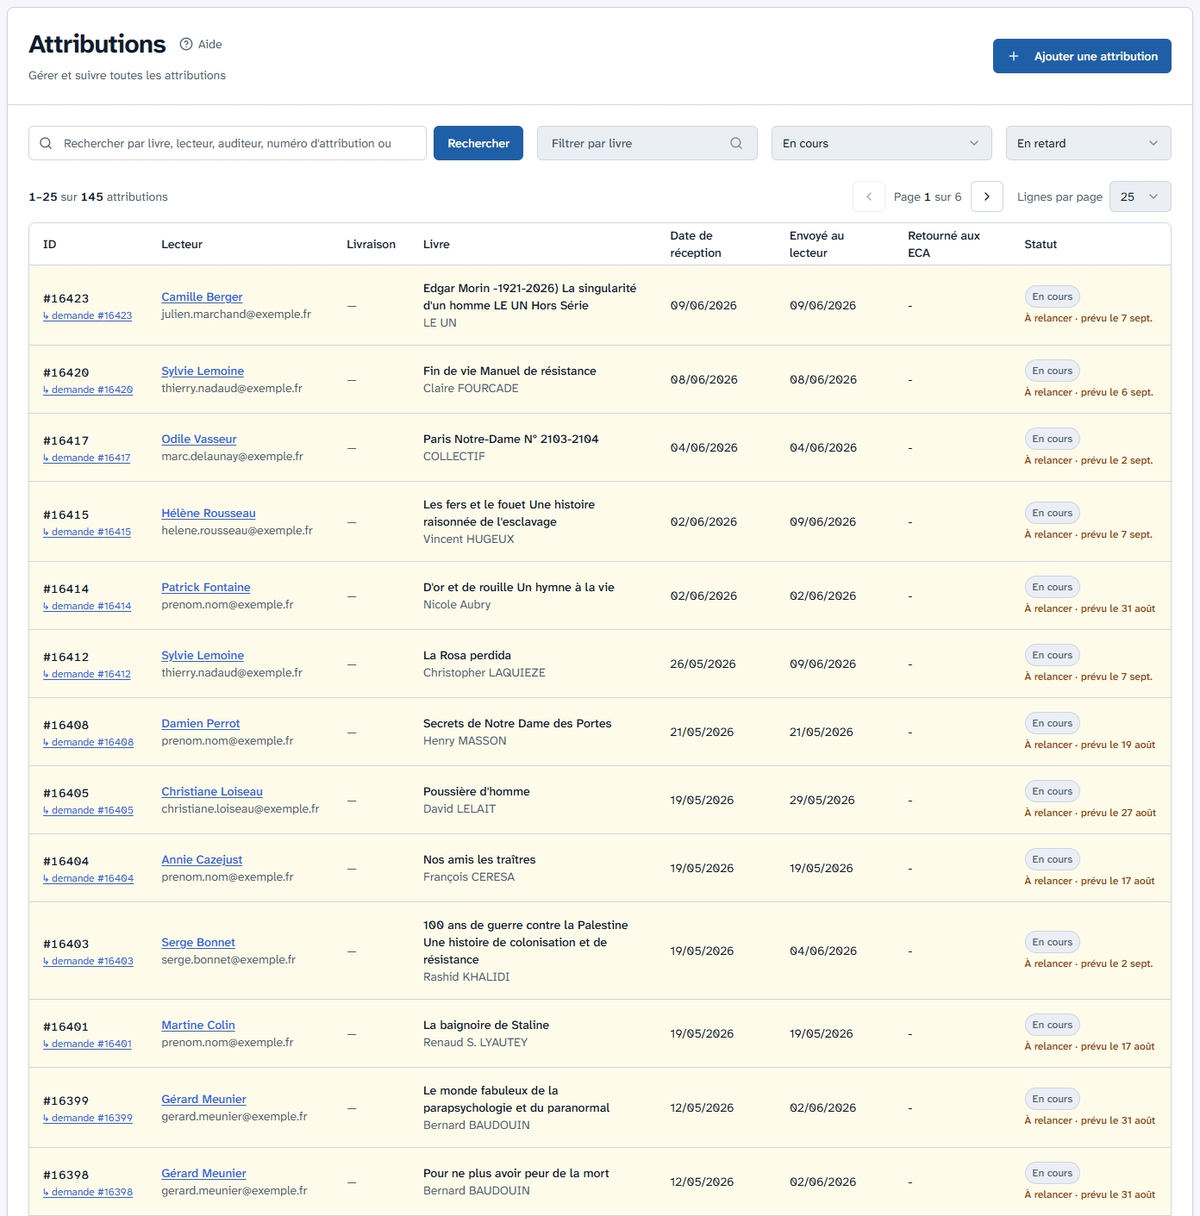
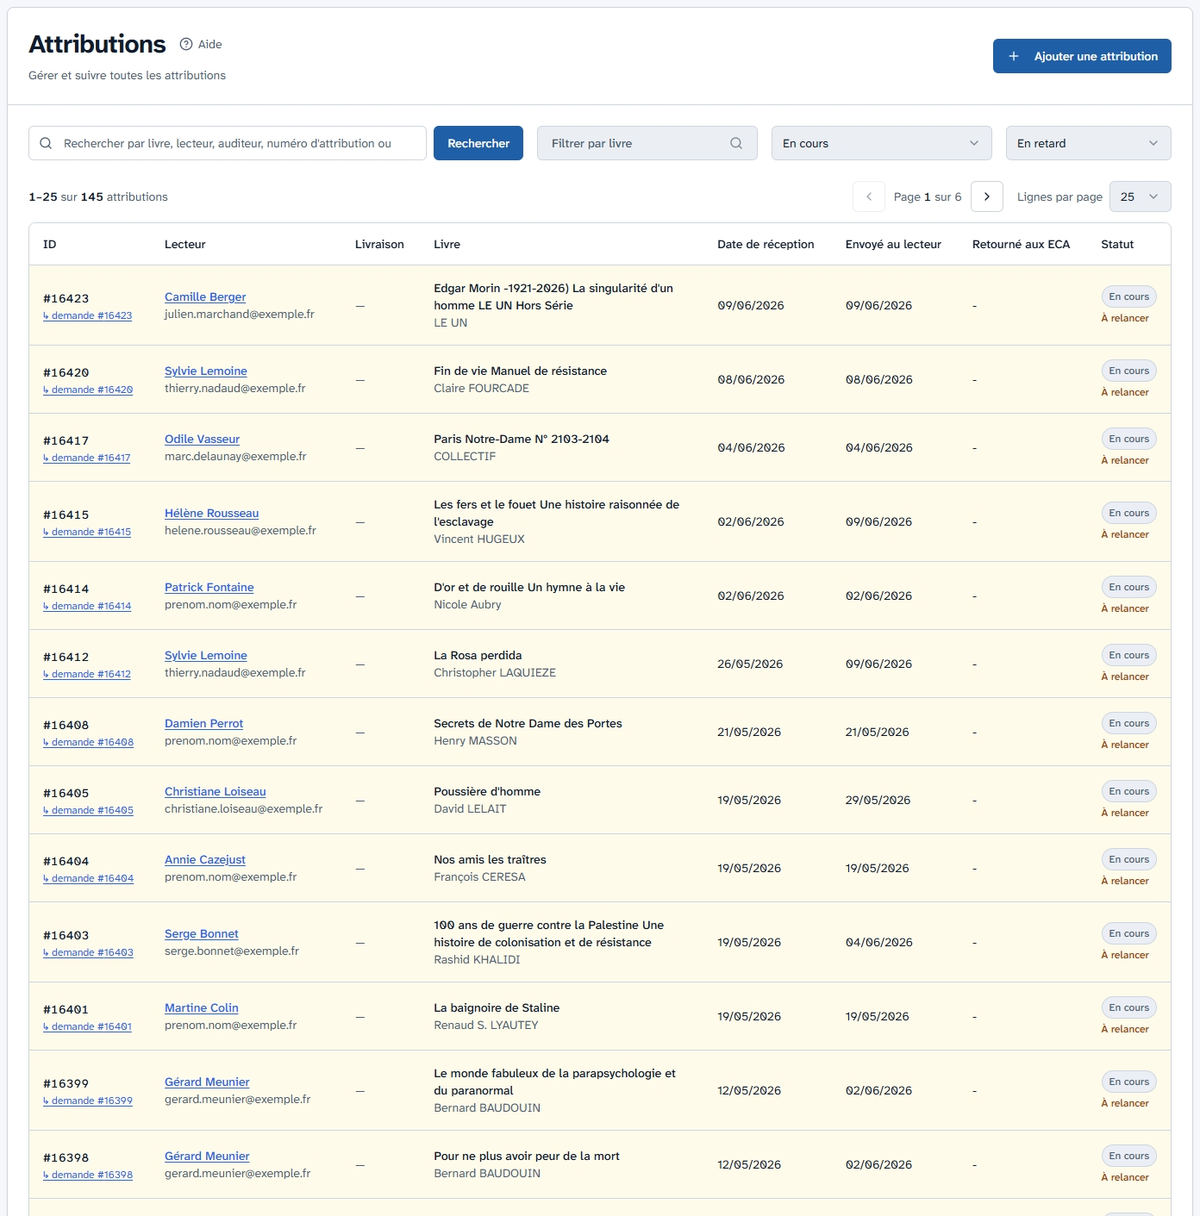
Retards : plus de « prévu le … », seulement « À suivre » / « À relancer » / « À surveiller »
Les badges des listes de demandes et d'attributions ne donnent plus de date
d'échéance : la date prévue se lisait comme un délai manqué et mettait la
pression sur l'équipe, sans rien apprendre que les dates de la ligne (demande,
envoi, retour) ne disent déjà. L'infobulle et le texte pour lecteur d'écran
disent l'étape et la consigne (« Chez le lecteur — à relancer »).

Factures : l'horloge d'une facture en retard dit « Émise depuis plus de 30
jours, à relancer » au lieu de « Date prévue dépassée ».

Mode d'emploi (demandes, attributions, page principale) sans « date prévue »,
deux captures refaites.

diff --git a/lib/orders/delais.ts b/lib/orders/delais.ts
@@ -1,7 +1,6 @@
 import { Prisma } from '@prisma/client';
 import { prisma } from '@/lib/prisma';
 import { STATUS } from '@/lib/statusSync';
-import { parisDate, parisDayKey } from '@/lib/paris-day';
 
 /**
  * Délais par étape — when an open demande is « en retard ».
@@ -357,37 +356,27 @@ export function duplicationStateWhere(
 /** JSON-safe, display-ready délai for a table row — only for rows past a line. */
 export type SerializedDelai = {
     niveau: Exclude<DelaiNiveau, 'a_jour'>;
-    /** Short badge: « À suivre · prévu le 1er oct. ». */
+    /** Short badge: « À suivre », « À relancer », « À surveiller ». */
     badge: string;
-    /** Short sentence for the tooltip / screen readers. */
+    /** Short sentence for the tooltip / screen readers: the stage, then the badge. */
     phrase: string;
 };
 
-const DAY_MONTH: Intl.DateTimeFormatOptions = { day: 'numeric', month: 'short' };
-const DAY_MONTH_YEAR: Intl.DateTimeFormatOptions = { ...DAY_MONTH, year: 'numeric' };
-
 /**
- * « 1er oct. », « 15 sept. », « 3 mars 2019 » — the date the stage was
- * expected to be over. A date rather than a count of days: « en retard de
- * 97 jours » read as a reproach to the volunteers it concerns. The year only
- * when it isn't this one — the imported backlog holds demandes open for years.
+ * The badge says what to do and nothing else. It carried a count of days
+ * (« En retard · 97 jours »), then the date the stage was expected to be over
+ * (« À suivre · prévu le 1er oct. ») — both read as a deadline missed, a
+ * reproach to the volunteers concerned, and neither told the team anything
+ * the row's own dates (demande, envoi, retour) don't already show.
  */
-function dateLabel(date: Date, now: Date): string {
-    const sameYear = parisDayKey(date).slice(0, 4) === parisDayKey(now).slice(0, 4);
-    return parisDate(date, sameYear ? DAY_MONTH : DAY_MONTH_YEAR).replace(/^1 /, '1er ');
-}
-
-export function serializeDelai(delai: Delai, now: Date = new Date()): SerializedDelai | null {
+export function serializeDelai(delai: Delai): SerializedDelai | null {
     if (delai.niveau === 'a_jour' || delai.depuis === null) return null;
     const cfg = DELAI_ETAPES[delai.etape];
-    // The planned date is not stored: the stage's clock plus its second line.
-    const prevu = dateLabel(new Date(delai.depuis.getTime() + cfg.retardJours * DAY_MS), now);
-    const late = delai.niveau === 'en_retard';
+    const badge = delai.niveau === 'en_retard' ? cfg.suiviLabel : SURVEILLER_LABEL;
     return {
         niveau: delai.niveau,
-        badge: `${late ? cfg.suiviLabel : SURVEILLER_LABEL} · prévu le ${prevu}`,
-        // No final full stop after a bare date: « oct. » already carries one.
-        phrase: late ? `${cfg.label} — date prévue dépassée (${prevu}).` : `${cfg.label} — prévu le ${prevu}`,
+        badge,
+        phrase: `${cfg.label} — ${badge.toLowerCase()}`,
     };
 }
 

diff --git a/app/admin/bills/bills-table.tsx b/app/admin/bills/bills-table.tsx
@@ -369,9 +369,9 @@ export default function BillsTable({
                                                     <TableCell>
                                                         <div className="flex items-center gap-1.5">
                                                             {late && (
-                                                                <span title="Date prévue dépassée" className="shrink-0">
+                                                                <span title="Émise depuis plus de 30 jours, à relancer" className="shrink-0">
                                                                     <Clock className="h-3.5 w-3.5 text-amber-600 dark:text-amber-400" aria-hidden="true" />
-                                                                    <span className="sr-only">Date prévue dépassée</span>
+                                                                    <span className="sr-only">Émise depuis plus de 30 jours, à relancer</span>
                                                                 </span>
                                                             )}
                                                             <span className={`inline-flex items-center whitespace-nowrap rounded-full px-2 py-1 text-xs font-medium ${getBillingStatusColor(bill.state)}`}>

diff --git a/content/aide/06-demandes.md b/content/aide/06-demandes.md
@@ -46,7 +46,7 @@ Vous pouvez filtrer votre recherche selon les critères suivants :
 
 4. Le type de la demande : enregistrement ou duplication. Deux choix de plus trient les duplications ouvertes : « Duplication réalisable » (celles qui peuvent être faites dès maintenant — c'est la liste qu'ouvre la ligne « Duplications à faire » de la page principale) et « Duplication après enregistrement » (celles dont le livre est encore en cours d'enregistrement : elles restent « À faire », avec sous leur statut la mention « Après l'enregistrement en cours », et le nom du lecteur au survol)
 
-5. Le filtre « Retard » : les demandes dont la date prévue est passée (« En retard »), à surveiller ou à jour — voir [Délais et suivi](/admin/aide/demandes#delais-et-suivi) juste en dessous
+5. Le filtre « Retard » : les demandes à suivre (« En retard »), à surveiller ou à jour — voir [Délais et suivi](/admin/aide/demandes#delais-et-suivi) juste en dessous
 
 Le bouton « Effacer les filtres » les retire tous d'un coup.
 
@@ -64,14 +64,14 @@ Chaque page a sa propre adresse : vous pouvez l'ouvrir dans un nouvel onglet (cl
 
 Une demande passe par plusieurs étapes, et **chaque étape a son propre délai**. Le compteur repart de zéro à chaque nouvelle étape : un livre qui vient de partir chez un lecteur n'est pas « à suivre » simplement parce que la demande est ancienne.
 
-| Étape | Statut de la demande | Le délai compte à partir de | À surveiller après | Date prévue au bout de |
+| Étape | Statut de la demande | Le délai compte à partir de | À surveiller après | À suivre après |
 |---|---|---|---|---|
 | En attente d'un lecteur | Attente envoi vers lecteur | la date de la demande | 30 jours | 60 jours |
 | Chez le lecteur | En cours | la date d'envoi au lecteur (ou de la dernière réattribution) | 60 jours | 90 jours — « à relancer » |
 | À expédier à l'auditeur | Attente envoi vers auditeur | la date de retour aux ECA | 3 jours | 7 jours |
 | Duplication à faire | À faire | la date de la demande, ou le retour de l'enregistrement qu'elle attendait | 7 jours | 14 jours |
 
-Ces délais viennent de nos propres chiffres : un lecteur est trouvé en moins de trois semaines pour la moitié des demandes, la moitié des livres reviennent de chez le lecteur en moins d'un mois, et neuf sur dix en moins de trois mois. Un livre chez le lecteur depuis deux mois n'a donc pas encore passé sa date prévue, mais c'est le bon moment pour prendre de ses nouvelles.
+Ces délais viennent de nos propres chiffres : un lecteur est trouvé en moins de trois semaines pour la moitié des demandes, la moitié des livres reviennent de chez le lecteur en moins d'un mois, et neuf sur dix en moins de trois mois. Un livre chez le lecteur depuis deux mois n'a donc rien d'anormal, mais c'est le bon moment pour prendre de ses nouvelles.
 
 Quelques précisions :
 
@@ -79,13 +79,13 @@ Quelques précisions :
 - **Une duplication à faire après un enregistrement n'est jamais à suivre** : elle attend un livre qu'un lecteur est encore en train d'enregistrer, et c'est cet enregistrement qui porte le délai. Le sien commence le jour où l'enregistrement revient.
 - **Une demande clôturée n'a plus de délai.**
 
-Dans la liste, une demande dont la date prévue est passée apparaît sur fond orange clair, avec sous son statut la mention « À suivre » (« À relancer » quand le livre est chez le lecteur) et cette date : « À suivre · prévu le 1er oct. ». Une demande à surveiller porte la mention « À surveiller » en gris, avec la date prévue à venir. En passant la souris sur la mention, vous lisez l'étape.
+Dans la liste, une demande à suivre apparaît sur fond orange clair, avec sous son statut la mention « À suivre » (« À relancer » quand le livre est chez le lecteur). Une demande à surveiller porte la mention « À surveiller » en gris. En passant la souris sur la mention, vous lisez l'étape.
 
 ![Demandes - capture 15](/admin/aide/images/demandes-15.jpg)
 
 La liste des [attributions](/admin/aide/attributions) a le même filtre « Retard », avec les mêmes délais pour les deux premières étapes, et les lignes sous les cartes de la [page principale](/admin/aide/page-principale#ce-qui-est-a-suivre) reprennent exactement ces règles.
 
-Les anciennes demandes restées ouvertes apparaissent elles aussi « à suivre », avec une date prévue parfois vieille de plusieurs années. Si une demande est en réalité terminée, clôturez-la : elle disparaît du décompte.
+Les anciennes demandes restées ouvertes apparaissent elles aussi « à suivre », parfois depuis plusieurs années. Si une demande est en réalité terminée, clôturez-la : elle disparaît du décompte.
 
 ## Ajout des demandes
 

diff --git a/content/aide/02-page-principale.md b/content/aide/02-page-principale.md
@@ -59,11 +59,11 @@ Les cartes « Demandes », « Attributions » et « Factures » comportent, sous
 - **Attributions** : les livres chez les lecteurs ;
 - **Factures** : les factures émises depuis plus de 30 jours et pas encore payées, « à relancer ».
 
-Chaque ligne indique combien d'éléments ont passé leur date prévue — **à suivre** (pour les livres chez les lecteurs, « à relancer »), en orange — ou sont **à surveiller**, en bleu. Quand tout va bien, elle affiche « À jour » en vert.
+Chaque ligne indique combien d'éléments sont **à suivre** (pour les livres chez les lecteurs, « à relancer »), en orange, ou **à surveiller**, en bleu. Quand tout va bien, elle affiche « À jour » en vert.
 
-Les duplications font exception, parce qu'elles se font tout de suite : la ligne « Duplications à faire » compte **toutes** celles qui peuvent être faites dès maintenant, que leur date prévue soit passée ou non — en bleu, avec le détail quand certaines sont à surveiller (« 5, dont 2 à surveiller »), en orange quand certaines sont à suivre (« 5, dont 2 à suivre »). Les duplications qui attendent encore un enregistrement chez un lecteur n'y sont pas comptées : elles ont leur propre ligne, en gris, « Duplications après enregistrement », qui n'apparaît que s'il y en a.
+Les duplications font exception, parce qu'elles se font tout de suite : la ligne « Duplications à faire » compte **toutes** celles qui peuvent être faites dès maintenant, qu'elles soient à suivre ou non — en bleu, avec le détail quand certaines sont à surveiller (« 5, dont 2 à surveiller »), en orange quand certaines sont à suivre (« 5, dont 2 à suivre »). Les duplications qui attendent encore un enregistrement chez un lecteur n'y sont pas comptées : elles ont leur propre ligne, en gris, « Duplications après enregistrement », qui n'apparaît que s'il y en a.
 
-Cliquez sur une ligne pour ouvrir la liste correspondante, déjà filtrée sur ces éléments-là ; cliquez sur la partie colorée de la carte pour ouvrir la page entière, comme avant. Les délais qui fixent la date prévue de chaque étape sont expliqués dans [Délais et suivi](/admin/aide/demandes#delais-et-suivi).
+Cliquez sur une ligne pour ouvrir la liste correspondante, déjà filtrée sur ces éléments-là ; cliquez sur la partie colorée de la carte pour ouvrir la page entière, comme avant. Les délais de chaque étape sont expliqués dans [Délais et suivi](/admin/aide/demandes#delais-et-suivi).
 
 ![Page principale - capture 6](/admin/aide/images/page-principale-06.jpg)
 

diff --git a/content/aide/07-attributions.md b/content/aide/07-attributions.md
@@ -14,7 +14,7 @@ L'URL de cette page est https://eca-aveugles.fr/admin/assignments.
 
 La page d'accueil comporte (1) un tableau répertoriant les attributions existantes, (2) un champ de recherche permettant d'affiner la recherche, (3) un filtre par livre, (4) un filtre par statut, et un filtre par retard (« En retard », « À surveiller », « À jour »). La recherche porte sur le lecteur, l'auditeur, le livre et le numéro de l'attribution.
 
-Une attribution en attente d'envoi est « à suivre » après 60 jours sans lecteur ; un livre chez le lecteur est « à surveiller » après 60 jours et « à relancer » après 90 — les mêmes délais que pour les demandes, détaillés dans [Délais et suivi](/admin/aide/demandes#delais-et-suivi). Une attribution dont la date prévue est passée apparaît sur fond orange clair, avec sous son statut la mention « À suivre » ou « À relancer » et la date prévue.
+Une attribution en attente d'envoi est « à suivre » après 60 jours sans lecteur ; un livre chez le lecteur est « à surveiller » après 60 jours et « à relancer » après 90 — les mêmes délais que pour les demandes, détaillés dans [Délais et suivi](/admin/aide/demandes#delais-et-suivi). Une attribution à suivre apparaît sur fond orange clair, avec sous son statut la mention « À suivre » ou « À relancer ».
 
 ![Attributions - capture 17](/admin/aide/images/attributions-17.jpg)
 
@@ -100,7 +100,7 @@ Suivez la même procédure que précédemment pour attribuer un nouveau lecteur 
 
 Lorsque vous cliquez sur ce bouton, l'attribution est immédiatement mise à jour ; il n'est donc pas nécessaire d'enregistrer l'ensemble du formulaire par la suite. Veillez donc à bien réfléchir avant de cliquer dessus.
 
-La réattribution fait repartir le délai « chez le lecteur » de la demande : le nouveau lecteur n'hérite pas de la date prévue du précédent (voir [Délais et suivi](/admin/aide/demandes#delais-et-suivi)).
+La réattribution fait repartir le délai « chez le lecteur » de la demande : le nouveau lecteur n'hérite pas du délai du précédent (voir [Délais et suivi](/admin/aide/demandes#delais-et-suivi)).
 
 ### Changer la demande d'une attribution
 
